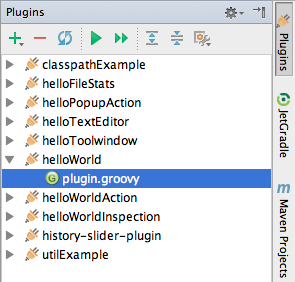
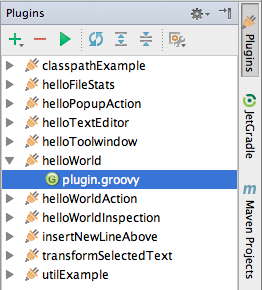
removed "run all plugins" action; changed toolbar layout

diff --git a/src/ru/intellijeval/toolwindow/PluginToolWindowManager.java b/src/ru/intellijeval/toolwindow/PluginToolWindowManager.java
@@ -275,13 +275,12 @@ public class PluginToolWindowManager {
 			DefaultActionGroup actionGroup = new DefaultActionGroup();
 			actionGroup.add(withIcon(Util.ADD_PLUGIN_ICON, createAddPluginsGroup()));
 			actionGroup.add(new DeletePluginAction(this));
-			actionGroup.add(new RefreshPluginListAction());
-			actionGroup.addSeparator();
 			actionGroup.add(new EvaluatePluginAction());
-			actionGroup.add(new EvaluateAllPluginsAction());
 			actionGroup.addSeparator();
+			actionGroup.add(new RefreshPluginListAction());
 			actionGroup.add(withIcon(Util.EXPAND_ALL_ICON, new ExpandAllAction()));
 			actionGroup.add(withIcon(Util.COLLAPSE_ALL_ICON, new CollapseAllAction()));
+			actionGroup.addSeparator();
 			actionGroup.add(withIcon(Util.SETTINGS_ICON, createSettingsGroup()));
 
 			// this is a "hack" to force drop-down box appear below button
